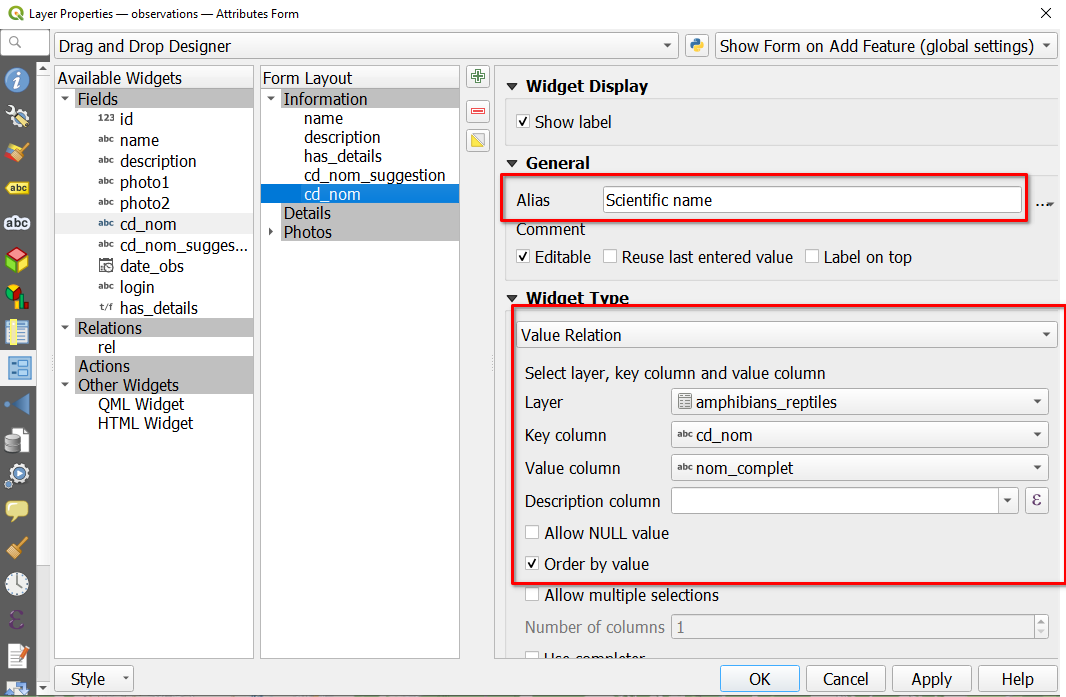
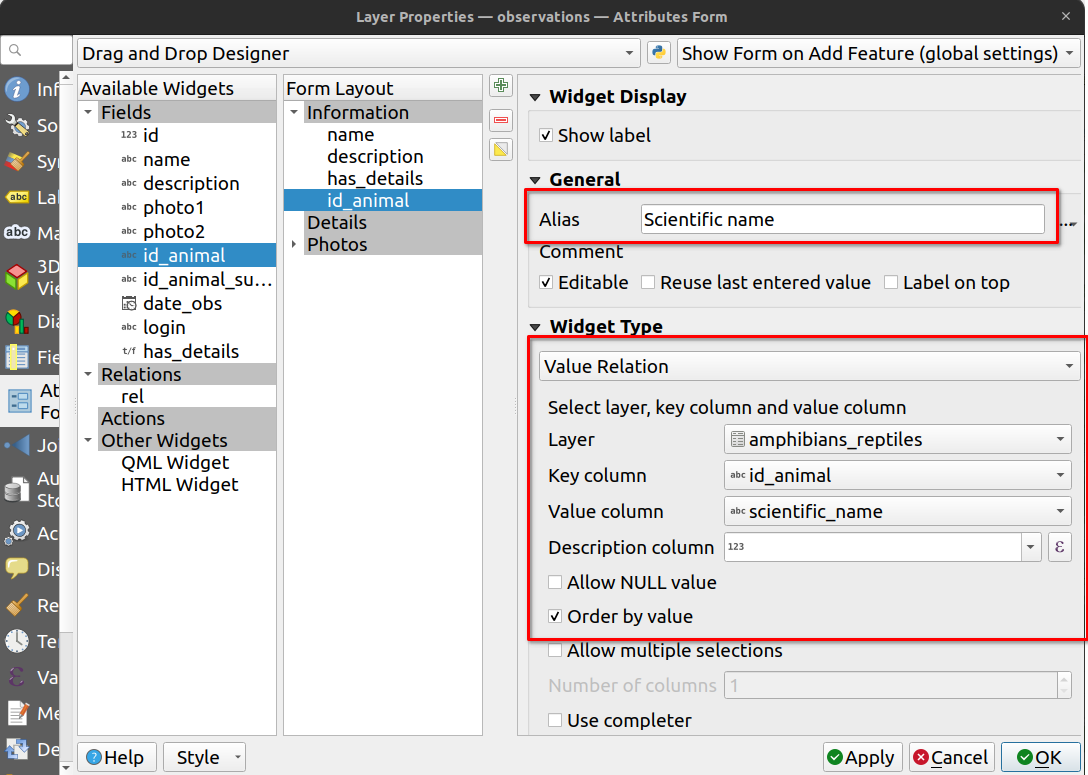
Third version

Changed region(s): [[0.0, 0.0, 1.0, 1.0], [0.9597, 0.8737, 0.9906, 0.9039], [0.4024, 0.934, 0.4334, 0.9641]]

diff --git a/docs/2022-08_FOSS4G_Advanced_QGIS_forms_into_the_web_with_Lizmap.md b/docs/2022-08_FOSS4G_Advanced_QGIS_forms_into_the_web_with_Lizmap.md
@@ -35,8 +35,10 @@ headingDivider: 1
 
 Nicolas BOISTEAULT - 3LIZ
 
-<!-- (20s) Hi, I'm going to show you how you can make advanced forms in QGIS which will be easy for users to be filled. This way you'll get more participation and less mistake in your data.
-I also will show you that you'll get those forms in the web thanks to Lizmap with no more configuration most of the time. -->
+<!-- (20s) Hi, I'm going to show you how you can make advanced forms in QGIS which will be easy for users to be filled.
+I also will show you that you'll get those forms in the web thanks to Lizmap with no more configuration most of the time.
+This way you'll get more participation and less mistake in your data.
+ -->
 
 # Organize form's fields
 
@@ -45,9 +47,9 @@ I also will show you that you'll get those forms in the web thanks to Lizmap wit
 ![w:800](media/foss4g2022_lizmap_advanced_forms/02_QGIS_dnd_tabs_conf.png)
 
 <!-- (20s)
-- Decide which fields are to be visible
+- Decide which fields are to be visible (here `id` field won't be visible, `name` field will)
 - Change field's order
-- Create tabs and group box
+- Create tabs and group boxes
 -->
 
 <!-- # Tabs
@@ -58,12 +60,12 @@ I also will show you that you'll get those forms in the web thanks to Lizmap wit
 
 ![w:400 top](media/foss4g2022_lizmap_advanced_forms/03_QGIS_dnd_groupbox_result.png) ![w:400](media/foss4g2022_lizmap_advanced_forms/03_Lizmap_dnd_groupbox.png) -->
 
-# Toggle tabs or group box visibility on condition
+# Toggle tabs or group boxes visibility on condition
 
 ![w:850](media/foss4g2022_lizmap_advanced_forms/06_QGIS_toggle_conf.png)
 
-<!-- (35s) Let's say we create a form for everybody (AKA crowdsourcing) but also logged in users in Lizmap (like people in our organization).
-Let's say you have a form with many fields but many of them are not mandatory so you don't want to show them all when users open the form to not scare them. If it seems too long to fill it, they might give up and close it.
+<!-- (35s) Let's say we create a form for a crowdsourcing campaign but also logged in users in Lizmap (like people in our organization).
+This form will have many fields but many of them are not mandatory so you don't want to show them all when users open the form to not scare them. If it seems too long to fill it, they might give up and close it.
 Here I've created a boolean field called `has_details`, with `Add details` as an Alias to have a more understandable title for this field and it is defined as a `Checkbox`... -->
 
 ---
@@ -78,13 +80,13 @@ Here I've created a boolean field called `has_details`, with `Add details` as an
 
 <!-- (10s) Here is the result. As you can see `Details` tab is only visible when `Add details?` is checked -->
 
-# Upload files
+# Upload photos
 
 - Use "Attachment" widget and "Filter" to define allowed extensions
 
 ![w:650](media/foss4g2022_lizmap_advanced_forms/04_QGIS_attachment_conf.png)
 
-<!-- (10s) We want people to upload photos. We create fields defined as `Attachment` with a Filter to only display JPEG and PNG files -->
+<!-- (10s) We want people to upload photos. We create two fields defined with `Attachment` widget type and with a Filter to only display JPEG and PNG files -->
 
 ---
 
@@ -97,7 +99,7 @@ Here I've created a boolean field called `has_details`, with `Add details` as an
 
 ![w:700](media/foss4g2022_lizmap_advanced_forms/04_Lizmap_attachment_crop..gif)
 
-In Lizmap, you can also rotate or crop images. It is more convenient than to have to install a software for that.
+<!-- (10s) In Lizmap, you can also rotate or crop images. It is more convenient than to have to install a software for that. -->
 
 # Constraints with expression
 
@@ -117,29 +119,43 @@ In Lizmap, you can also rotate or crop images. It is more convenient than to hav
 
 ![w:600](media/foss4g2022_lizmap_advanced_forms/07_QGIS_login_conf.png)
 
-<!-- When contributors are logged in Lizmap we can use their user login or user groups in form's expression.
-Here I have created an invisible `login` field which get filled by the user login when form is saved
+<!-- (15s) When contributors are logged in Lizmap we can use their user login or user groups in form's expressions.
+Here I have created an invisible `login` field which get filled with the user login when form is saved.
  -->
 
 # Value relation
 
 ![w:800](media/foss4g2022_lizmap_advanced_forms/08_QGIS_value_relation_conf.png)
 
+<!-- Value Relation is very convenient to display a list of value from another layer. -->
+
 ---
 
 ![w:350](media/foss4g2022_lizmap_advanced_forms/08_Lizmap_value_relation.gif)
 
+<!-- Sometimes the list can be very long. It would be more convenient to make suggestion based on previous record -->
+
 # Use case: suggestion based on previous record
 
-- Get last previous record for every users
+- Get last previous record for logged users and `UNION ALL` to the whole list
 
 ```sql
-SELECT DISTINCT ON (login)
-obs.cd_nom, amph.nom_complet, login
-FROM foss4g.observations obs
-LEFT JOIN foss4g.amphibians_reptiles amph ON obs.cd_nom = amph.cd_nom
-ORDER BY login, date_obs DESC
+SELECT * FROM (
+  (
+    SELECT DISTINCT ON (login)
+    1 AS id, obs.id_animal, amph.scientific_name, login
+    FROM foss4g.observations obs
+    LEFT JOIN foss4g.amphibians_reptiles amph on obs.id_animal = amph.id_animal
+    ORDER BY login, date_obs DESC
+  )
+  UNION ALL 
+  (
+  SELECT row_number() over (ORDER BY scientific_name) + 1 AS id, id_animal, scientific_name, NULL AS login 
+  FROM foss4g.amphibians_reptiles
+  )
+) sub_query ORDER BY id
 ```
+---
 
 ![w:500](media/foss4g2022_lizmap_advanced_forms/09_QGIS_last_observation.png)
 
